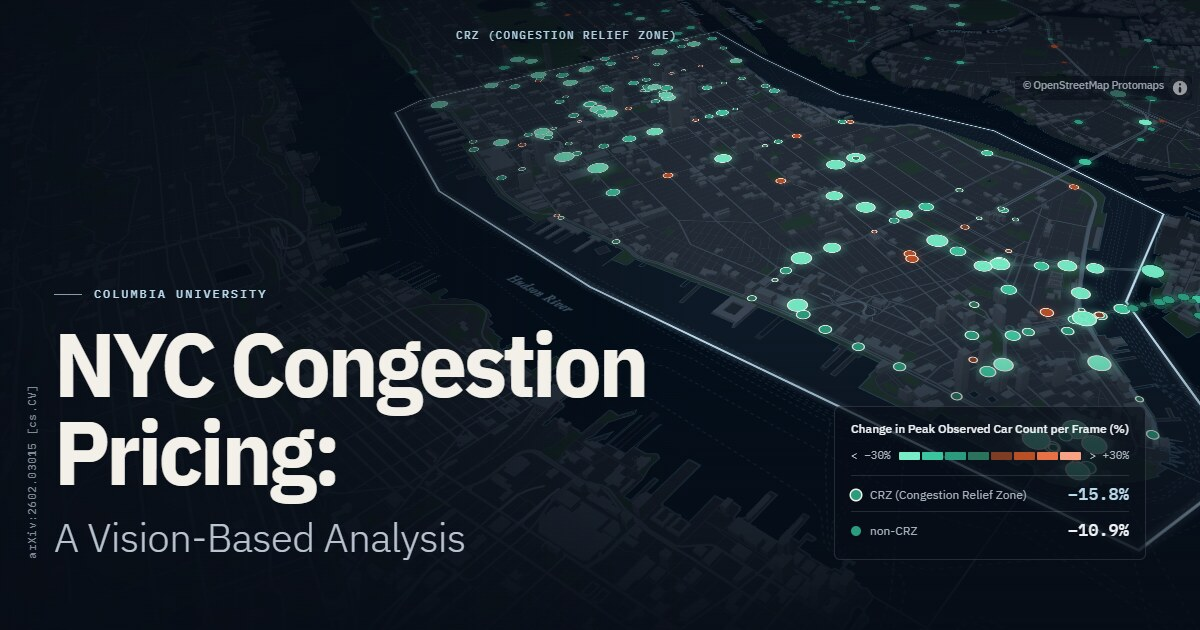
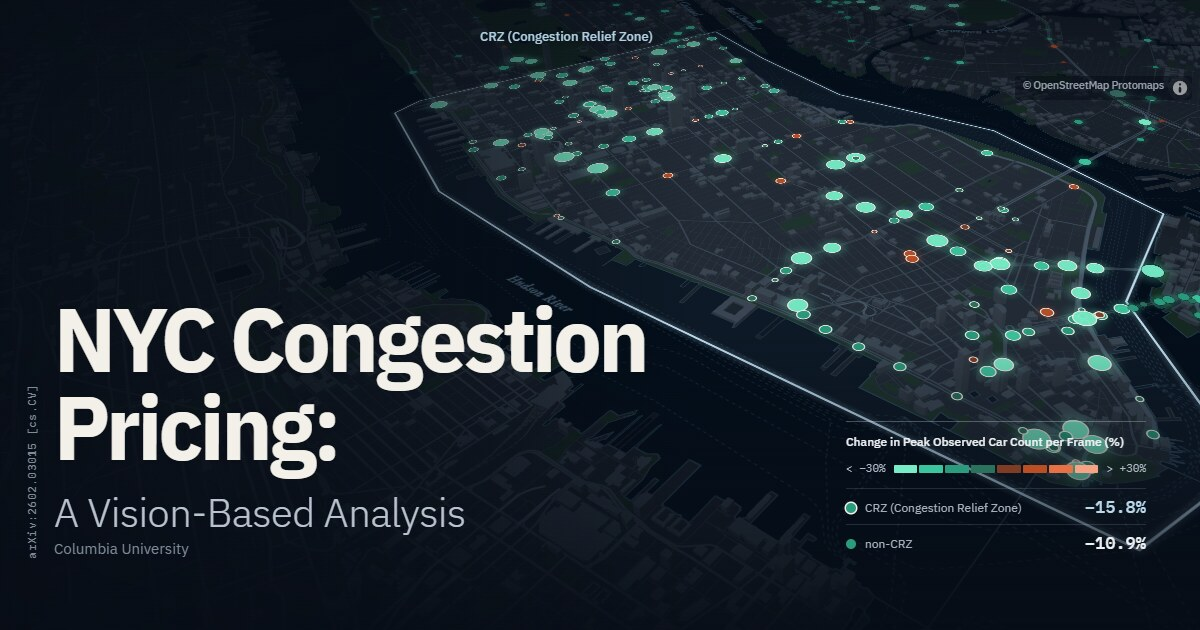
Push updates

diff --git a/static/css/index.css b/static/css/index.css
@@ -87,10 +87,8 @@ h1, h2, h3, p, ol, ul, figure { margin: 0; }
 .site-nav__links a {
   font-size: 0.875rem; font-weight: 500; letter-spacing: 0.01em; text-decoration: none; white-space: nowrap;
   padding-block: 6px;
-  background: linear-gradient(currentColor, currentColor) 0 100% / 0 1px no-repeat;
-  transition: background-size var(--dur-std) var(--ease-out), opacity var(--dur-micro);
 }
-.site-nav__links a:hover { background-size: 100% 1px; }
+.site-nav__links a:hover { text-decoration: underline; text-decoration-thickness: 1px; text-underline-offset: 5px; }
 @media (max-width: 760px) {
   .site-nav__app { display: none; }
 }
@@ -115,8 +113,6 @@ h1, h2, h3, p, ol, ul, figure { margin: 0; }
 .btn--ghost:hover { border-color: rgba(238, 241, 244, 0.75); background: rgba(238, 241, 244, 0.06); }
 .btn--text { padding-inline: 8px; color: var(--on-night-2); }
 .btn--text:hover { color: var(--on-night); }
-.btn--text .icon { transition: transform var(--dur-std) var(--ease-out); }
-.btn--text:hover .icon { transform: translateY(3px); }
 
 /* ——— Hero ——— */
 
@@ -243,7 +239,7 @@ h1, h2, h3, p, ol, ul, figure { margin: 0; }
   /* Content flows at the bottom; the hero grows if it has to, keeping the map's upper band clear. */
   .hero { display: flex; flex-direction: column; justify-content: flex-end; height: auto; min-height: 100svh; }
   .hero__content { position: relative; left: auto; right: auto; bottom: auto; margin-inline: var(--inset); padding: max(40svh, 240px) 0 36px; }
-  .hero__byline { font-size: 0.8125rem; }
+  .hero__byline, .hero__affiliation { font-size: 0.8125rem; }
   .hero__key { margin-top: 22px; }
   .hero__key-title { margin-bottom: 8px; }
   .hero__key-rows { grid-template-columns: 1fr 1fr; column-gap: 16px; margin-top: 8px; }
@@ -266,7 +262,7 @@ h1, h2, h3, p, ol, ul, figure { margin: 0; }
   opacity: 0; pointer-events: none;
 }
 .js .hero [data-scan] { clip-path: inset(-0.3em 100% -0.3em -0.1em); }
-.js .hero [data-intro], .js .hero [data-key] { opacity: 0; translate: 0 12px; }
+.js .hero [data-intro], .js .hero [data-key] { opacity: 0; }
 
 .js .hero.is-intro [data-scan] {
   clip-path: inset(-0.3em -0.1em -0.3em -0.1em);
@@ -282,8 +278,8 @@ h1, h2, h3, p, ol, ul, figure { margin: 0; }
   100% { left: 100%; opacity: 0; }
 }
 .js .hero.is-intro [data-intro] {
-  opacity: 1; translate: none;
-  transition: opacity 800ms var(--ease-out), translate 1000ms var(--ease-out);
+  opacity: 1;
+  transition: opacity 800ms var(--ease-out);
 }
 .js .hero.is-intro .hero__subtitle[data-intro] { transition-delay: 620ms; }
 .js .hero.is-intro .hero__byline[data-intro] { transition-delay: 760ms; }
@@ -291,8 +287,8 @@ h1, h2, h3, p, ol, ul, figure { margin: 0; }
 .js .hero.is-intro .hero__stamp[data-intro] { transition-delay: 900ms; }
 .js .hero.is-intro .hero__actions[data-intro] { transition-delay: 940ms; }
 .js .hero.has-results [data-key] {
-  opacity: calc(1 - var(--hero-p, 0) * 2); translate: none;
-  transition: opacity 900ms var(--ease-out), translate 1100ms var(--ease-out);
+  opacity: calc(1 - var(--hero-p, 0) * 2);
+  transition: opacity 900ms var(--ease-out);
 }
 @media (max-width: 1179px) {
   .js .hero.has-results [data-key] { opacity: 1; }
@@ -324,7 +320,7 @@ h1, h2, h3, p, ol, ul, figure { margin: 0; }
   position: relative; display: block; width: min(100%, 1040px); margin-inline: auto;
   padding: clamp(14px, 2.8vw, 44px);
   border: 0; border-radius: 14px; background: #fff; cursor: zoom-in;
-  box-shadow: 0 1px 0 rgba(17, 27, 41, 0.05), 0 34px 70px -34px rgba(20, 36, 58, 0.42), 0 10px 22px -16px rgba(20, 36, 58, 0.22);
+  box-shadow: 0 0 0 1px var(--rule);
 }
 .teaser__frame img { width: 100%; height: auto; }
 .teaser__zoom {
@@ -440,21 +436,15 @@ h1, h2, h3, p, ol, ul, figure { margin: 0; }
 .launch-card__media {
   position: relative; display: block; overflow: hidden; border-radius: 14px;
   aspect-ratio: 16 / 10; background: var(--night);
-  box-shadow: 0 0 0 1px rgba(17, 27, 41, 0.08), 0 30px 60px -34px rgba(20, 36, 58, 0.55);
-  isolation: isolate;
+  box-shadow: 0 0 0 1px var(--rule);
 }
-.launch-card__media img {
-  width: 100%; height: 100%; object-fit: cover;
-  transform: scale(1.015);
-  transition: transform 1400ms var(--ease-out);
-}
-.launch-card:hover .launch-card__media img { transform: scale(1.06); }
+.launch-card__media img { width: 100%; height: 100%; object-fit: cover; }
 .launch-card__label {
   display: flex; align-items: center; gap: 12px; padding-inline: 2px;
   font-family: var(--font-sans); font-size: clamp(1.25rem, 1.05rem + 0.6vw, 1.6rem); font-weight: 600; letter-spacing: -0.02em;
 }
 .launch-card__label .icon { width: 22px; height: 22px; stroke-width: 1.5; color: var(--cu-navy); }
-.launch-card:hover .launch-card__label > span { color: var(--cu-navy); }
+.launch-card:hover .launch-card__label > span { color: var(--cu-navy); text-decoration: underline; text-decoration-thickness: 1px; text-underline-offset: 0.16em; }
 .launch__help { margin-top: 28px; font-size: 0.875rem; color: var(--ink-3); }
 
 /* ——— Editorial sections ——— */
@@ -512,10 +502,16 @@ h1, h2, h3, p, ol, ul, figure { margin: 0; }
 }
 .rail-title--minor { color: var(--ink-3); }
 .ack__text {
+  display: grid; gap: 0.7em;
   max-width: 40em;
   font-family: var(--font-serif); font-size: clamp(1.1rem, 1.02rem + 0.3vw, 1.25rem); line-height: 1.5;
   color: var(--ink-2); text-wrap: pretty;
 }
+.ack__text a {
+  text-decoration-thickness: 1px; text-underline-offset: 0.18em; text-decoration-color: var(--rule-strong);
+  transition: color var(--dur-micro) var(--ease-out), text-decoration-color var(--dur-micro) var(--ease-out);
+}
+.ack__text a:hover { color: var(--cu-navy); text-decoration-color: currentColor; }
 .partners {
   list-style: none; padding: 0; margin-top: clamp(40px, 5vw, 64px);
   display: flex; flex-wrap: wrap; align-items: center; justify-content: space-between; gap: 36px 48px;
@@ -602,13 +598,13 @@ h1, h2, h3, p, ol, ul, figure { margin: 0; }
 .lightbox {
   max-width: min(96vw, 1500px); max-height: 94vh; padding: 0; border: 0; background: transparent; overflow: visible;
 }
-.lightbox::backdrop { background: rgba(6, 10, 16, 0.86); -webkit-backdrop-filter: blur(6px); backdrop-filter: blur(6px); }
+.lightbox::backdrop { background: rgba(6, 10, 16, 0.88); }
 .lightbox img {
   width: auto; max-width: min(96vw, 1500px); max-height: 90vh; height: auto;
   padding: clamp(10px, 2vw, 28px); border-radius: 4px; background: #fff;
 }
 .lightbox[open] { animation: lightbox-in var(--dur-complex) var(--ease-out); }
-@keyframes lightbox-in { from { opacity: 0; transform: scale(0.97); } }
+@keyframes lightbox-in { from { opacity: 0; } }
 .lightbox__close {
   position: absolute; top: 10px; right: 10px;
   display: grid; place-items: center; width: 44px; height: 44px; border: 0; border-radius: 50%;
@@ -623,7 +619,7 @@ h1, h2, h3, p, ol, ul, figure { margin: 0; }
     animation-duration: 0.01ms !important; animation-iteration-count: 1 !important;
     transition-duration: 0.01ms !important; transition-delay: 0ms !important;
   }
-  .js [data-reveal], .js .hero [data-intro], .js .hero [data-key] { opacity: 1; translate: none; }
+  .js [data-reveal], .js .hero [data-intro], .js .hero [data-key] { opacity: 1; }
   .js .hero [data-scan] { clip-path: none; }
   .hero__map, .hero__content { transform: none; }
 }

diff --git a/interactive/assets/app.css b/interactive/assets/app.css
@@ -16,7 +16,7 @@
   --accent: #b9d9eb;
   --accent-ink: #0b1a2c;
   --crz: #b9d9eb;
-  --shadow: 0 1px 0 rgba(255, 255, 255, 0.03) inset, 0 18px 44px -18px rgba(0, 0, 0, 0.7), 0 2px 8px -2px rgba(0, 0, 0, 0.35);
+  --shadow: 0 1px 2px rgba(0, 0, 0, 0.35), 0 6px 16px -8px rgba(0, 0, 0, 0.5);
   --map-bg: #030e1a;
   --tip-bg: #f7f5f0;
   --tip-text: #111b29;
@@ -36,7 +36,7 @@
   --accent: #1d4f91;
   --accent-ink: #ffffff;
   --crz: #1d4f91;
-  --shadow: 0 18px 40px -20px rgba(20, 36, 58, 0.38), 0 2px 8px -3px rgba(20, 36, 58, 0.16);
+  --shadow: 0 1px 2px rgba(20, 36, 58, 0.12), 0 6px 16px -8px rgba(20, 36, 58, 0.22);
   --map-bg: #b9d9eb;
   --tip-bg: #111b29;
   --tip-text: #eef1f4;
@@ -91,19 +91,11 @@ a { color: inherit; }
   box-shadow: var(--shadow);
   transition: background-color var(--dur-complex) var(--ease-out), border-color var(--dur-complex) var(--ease-out),
     color var(--dur-complex) var(--ease-out), box-shadow var(--dur-complex) var(--ease-out),
-    opacity 700ms var(--ease-out), transform 900ms var(--ease-out);
+    opacity 500ms var(--ease-out);
 }
-.js-intro .panel { opacity: 0; transform: translate3d(0, 10px, 0); }
-.js-intro.is-ready .panel { opacity: 1; transform: none; }
-.js-intro.is-ready .panel:nth-of-type(2) { transition-delay: 90ms; }
-.js-intro.is-ready .panel:nth-of-type(3) { transition-delay: 180ms; }
-.js-intro.is-ready .panel:nth-of-type(4) { transition-delay: 270ms; }
+.js-intro .panel { opacity: 0; }
+.js-intro.is-ready .panel { opacity: 1; }
 
-.panel__eyebrow {
-  margin: 0 0 6px;
-  font-family: var(--font-serif); font-size: 0.95rem; font-weight: 500;
-  font-variant-caps: all-small-caps; letter-spacing: 0.12em; color: var(--text-3);
-}
 .panel__title {
   margin: 0;
   font-family: var(--font-sans); font-weight: 600; font-size: 1.0625rem; line-height: 1.25; letter-spacing: -0.015em;
@@ -295,4 +287,5 @@ a { color: inherit; }
 
 @media (prefers-reduced-motion: reduce) {
   *, *::before, *::after { animation-duration: 0.01ms !important; animation-iteration-count: 1 !important; transition-duration: 0.01ms !important; transition-delay: 0ms !important; }
+  .loading__mark::before { left: 0; width: 100%; opacity: 0.5; animation: none !important; }
 }

diff --git a/index.html b/index.html
@@ -289,8 +289,15 @@
       <div class="wrap">
         <div class="split ack">
           <h3 class="rail-title rail-title--minor">Acknowledgement</h3>
-          <p class="ack__text">This project was partly supported by compute resources at the PAWR COSMOS testbed at Columbia
-            University.</p>
+          <div class="ack__text">
+            <p>This project was partly supported by compute resources at the PAWR COSMOS testbed at Columbia
+              University.</p>
+            <p>This work began while the first author was a member of the <a href="https://www.ee.columbia.edu/"
+                target="_blank" rel="noopener">Department of Electrical Engineering</a> (<a
+                href="https://www.aidl.ee.columbia.edu/" target="_blank" rel="noopener">AIDL Lab</a>) at Columbia
+              University, and is currently maintained by the first author at the <a href="https://cs3-erc.org/"
+                target="_blank" rel="noopener">NSF Center for Smart Streetscapes</a>.</p>
+          </div>
         </div>
         <ul class="partners">
           <li><a href="https://www.columbia.edu" target="_blank" rel="noopener noreferrer"><img

diff --git a/static/js/index.js b/static/js/index.js
@@ -84,17 +84,8 @@ function showResults() {
   hero.classList.add('has-results');
   dataPromise.then((data) => {
     const s = data.stats.all;
-    for (const [key, to] of [['crz', s.crz_median_pct], ['control', s.non_crz_median_pct]]) {
-      const el = document.querySelector(`[data-key-value="${key}"]`);
-      if (reduceMotion) { el.textContent = fmtSigned(to) + '%'; continue; }
-      const t0 = performance.now();
-      const step = (now) => {
-        const p = easeOutCubic(clamp01((now - t0) / 1100));
-        el.textContent = fmtSigned(to * p) + '%';
-        if (p < 1) requestAnimationFrame(step);
-      };
-      requestAnimationFrame(step);
-    }
+    document.querySelector('[data-key-value="crz"]').textContent = fmtSigned(s.crz_median_pct) + '%';
+    document.querySelector('[data-key-value="control"]').textContent = fmtSigned(s.non_crz_median_pct) + '%';
   });
 }
 // Never hold the results back for long, whatever the map is doing.
